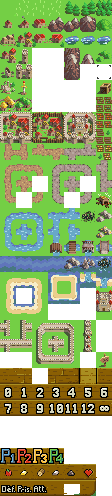
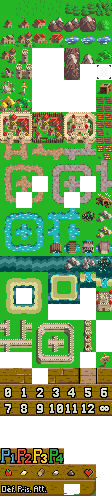
set to 8bpp

diff --git a/game.cpp b/game.cpp
@@ -72,6 +72,7 @@ void Game::next_player()
         finished_game = true;
     else
         current_player = next;
+    cursor_color();
     message("Now it's day %d player %d turn\n",day,next);
 }
 
@@ -119,7 +120,7 @@ void Game::init()
     tilemap_init (&map,
         &data_tiles_bg[ 4 ], // no palette
         0,0,
-        TMAP_HEADER(SCREEN_W,SCREEN_H,TSET_16,TMAP_U16),
+        TMAP_HEADER(SCREEN_W,SCREEN_H,TSET_16,TMAP_U8) | TSET_8bit,
         vram
     );
 
@@ -149,7 +150,7 @@ void Game::load_map() {
     );
 
     // copy background from first level over
-    memcpy( vram, &data_map [MAP_HEADER_SZ], SCREEN_W*2 );
+    memcpy( vram, &data_map [MAP_HEADER_SZ], SCREEN_W );
 }
 
 void Game::load_units()
@@ -183,6 +184,9 @@ void Game::start_level(int _level)
 
     step = level*100;
     finished_game = false;
+
+    current_player = 0;
+    cursor_color();
 }
 
 void Game::get_possible_targets(Unit &attacking)

diff --git a/mk_pals.py b/mk_pals.py
@@ -5,11 +5,11 @@ import xml.etree.ElementTree as ET
 from PIL import Image
 import sys
 
-DEBUG=True
+DEBUG=False
 
 sys.path.append('sdk/lib/blitter/scripts')
 from spr2png import Sprite
-from utils import rgba2u16
+from utils import rgba2u8
 colors = Image.open('colors.png').load()
 
 # load palette from original sprite
@@ -44,9 +44,9 @@ if DEBUG :
 	dpal.putdata(newpal[0]+newpal[1]+newpal[2]+newpal[3]+newpal[4]+newpal[5]+newpal[6]+newpal[7])
 	dpal.save('_debug.png')
 
-# save palettes as colors to .pal file containting 4+4 palettes of 256 couples of 2 bytes/color each.
+# save palettes as colors to .pal file containting 4+4 palettes of 256 couples of 1 byte/color each = 8*256=2k
 of = open('palettes.bin','wb')
 for p in newpal :
 	for c in p :
-		u16 = rgba2u16(*c)
-		of.write(bytes([u16&0xff, u16>>8]))
+		u8 = rgba2u8(*c)
+		of.write(bytes((u8,)))

diff --git a/game.h b/game.h
@@ -26,7 +26,7 @@ struct Game {
     // global info
     Unit units[MAX_UNITS];      // frame as unit type, set line=0 if not used. palette as player+aleady moved (faded)
 
-    uint16_t vram[SCREEN_W*SCREEN_H]; // map
+    uint8_t vram[SCREEN_W*SCREEN_H]; // map
 
     object map;		// BG
     object cursor;
@@ -37,6 +37,10 @@ struct Game {
     // temp for current targets -> use a next_target() method ?
     Unit *targets[8];
     int nbtargets;
+
+    // set cursor_color
+    void cursor_color () { cursor.b = (uintptr_t) &data_palettes_bin[ 512*current_player ]; }
+
 
     Unit *unit_at(int pos);
 	Unit *unit_new (uint8_t x, uint8_t y, uint8_t type, uint8_t player_id );

diff --git a/unit.h b/unit.h
@@ -17,8 +17,8 @@ struct Unit : public object
     int  type () const { return fr/8; }
     void type (int typeunit_id) { fr = typeunit_id*8; };
 
-    void palette (int palette) { b = (uintptr_t)    &data_palettes_bin[ 1024*palette ]; }
-    int  palette () const { return (b - (uintptr_t) &data_palettes_bin[0] ) / 1024; }
+    void palette (int palette) { b = (uintptr_t)    &data_palettes_bin[ 512*palette ]; }
+    int  palette () const { return (b - (uintptr_t) &data_palettes_bin[0] ) / 512; }
 
     void    health(uint8_t health) { c = health; }
     uint8_t health() { return c; }

diff --git a/main.cpp b/main.cpp
@@ -51,6 +51,7 @@ static uint16_t ram_palette[256*2];
 // fade to black a palette from a reference palette. value =0 means full black
 void palette_fade(int palette_sz, object *ob, uint16_t *src_palette, uint8_t value)
 {
+#if VGA_BPP==16
     uint16_t *dst = (uint16_t*)ob->b;
     for (int i=0;i<palette_sz*2;i++) {
         // split into RGB u8
@@ -62,6 +63,7 @@ void palette_fade(int palette_sz, object *ob, uint16_t *src_palette, uint8_t val
         // reassemble
         dst[i] = r<<10 | g << 5 | b;
     }
+#endif
 }
 
 // gamepad 0 button pressed this frame ?

diff --git a/grid.cpp b/grid.cpp
@@ -58,9 +58,9 @@ void Grid::grid_line (struct object *o)
 	// squares
 
 	for (int i=0;i<SCREEN_W;i++) {
-		uint16_t color = (i+y/16)%2 ? o->a >>16 : o->a&0x7fff;
+		pixel_t color = (i+y/16)%2 ? o->a >>16 : o->a&0x7fff;
 		if (data[y/16] & (1<<i)) {
-			uint16_t *firstpixel = &draw_buffer[o->x+i*16];
+			pixel_t *firstpixel = &draw_buffer[o->x+i*16];
 
 			// draw bottom only if none after
 			if (y%16==0 || ( y%16==15 && ! (data[y/16+1] & (1<<(i))))) {
